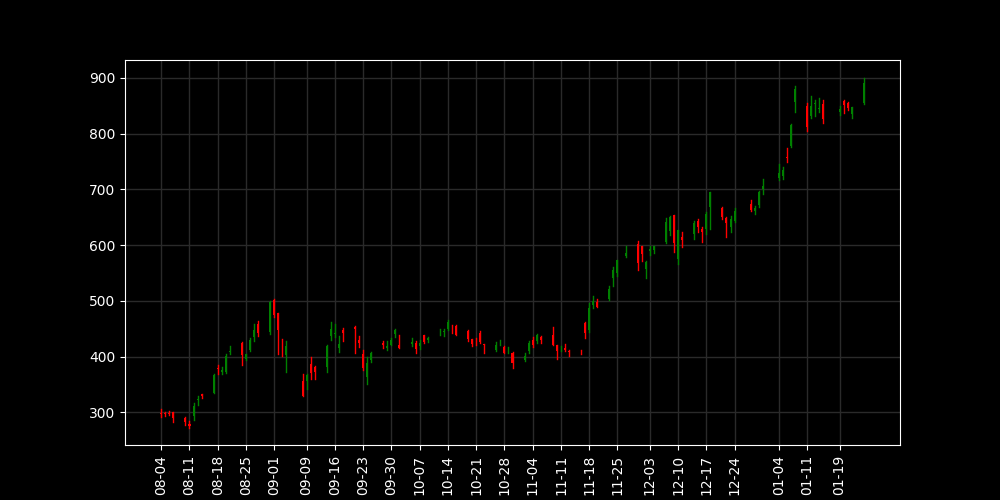
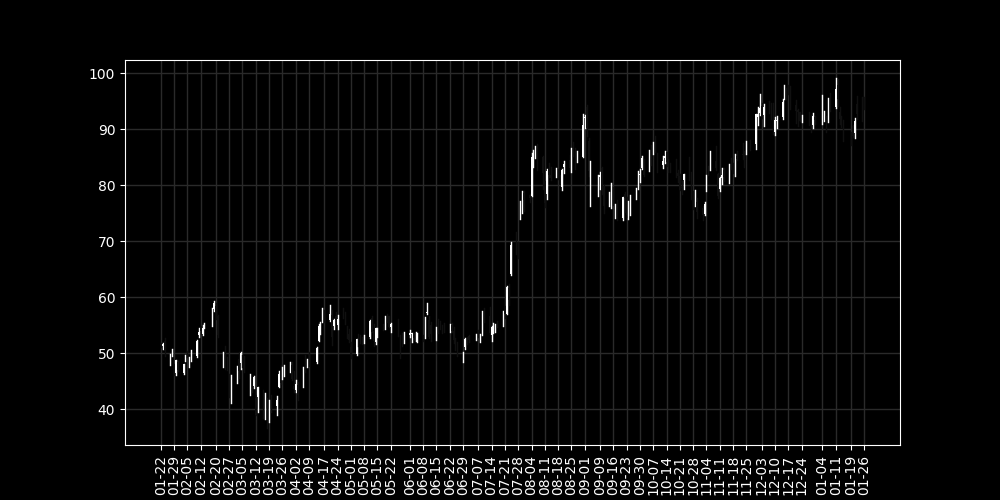
adjusted formattin settings.

Changed region(s): [[0.093, 0.12, 0.899, 0.99], [0.093, 0.57, 0.124, 0.63], [0.093, 0.12, 0.124, 0.18]]

diff --git a/src/visualize.py b/src/visualize.py
@@ -14,9 +14,9 @@ fig = plt.figure(figsize=(10,5))
 ax = fig.add_subplot(111)
 
 # draw chart from data
-ax = data.draw_chart(ax, data.sec_hist, 'green','red')
-ax = process.sma(15, ax, data.sec_hist, 'yellow')
-ax = process.sma(5, ax, data.sec_hist, 'white')
+ax = data.draw_chart(ax, data.sec_hist, 'white','#101010')
+ax = process.sma(15, ax, data.sec_hist, '#2a2a2a')
+ax = process.sma(5, ax, data.sec_hist, '#6a6a6a')
 
 # plot grid
 ax.grid(linestyle='-', linewidth=1, color='#2a2a2a', zorder=1)

diff --git a/src/data.py b/src/data.py
@@ -6,8 +6,8 @@ import pandas as pd
 import matplotlib as mpl
 
 # get security history
-sec = yf.Ticker('TSLA')
-sec_hist = sec.history(period='120d')
+sec = yf.Ticker('AMD')
+sec_hist = sec.history(period='256d')
 sec_hist.reset_index(inplace=True)
 
 # get bars
